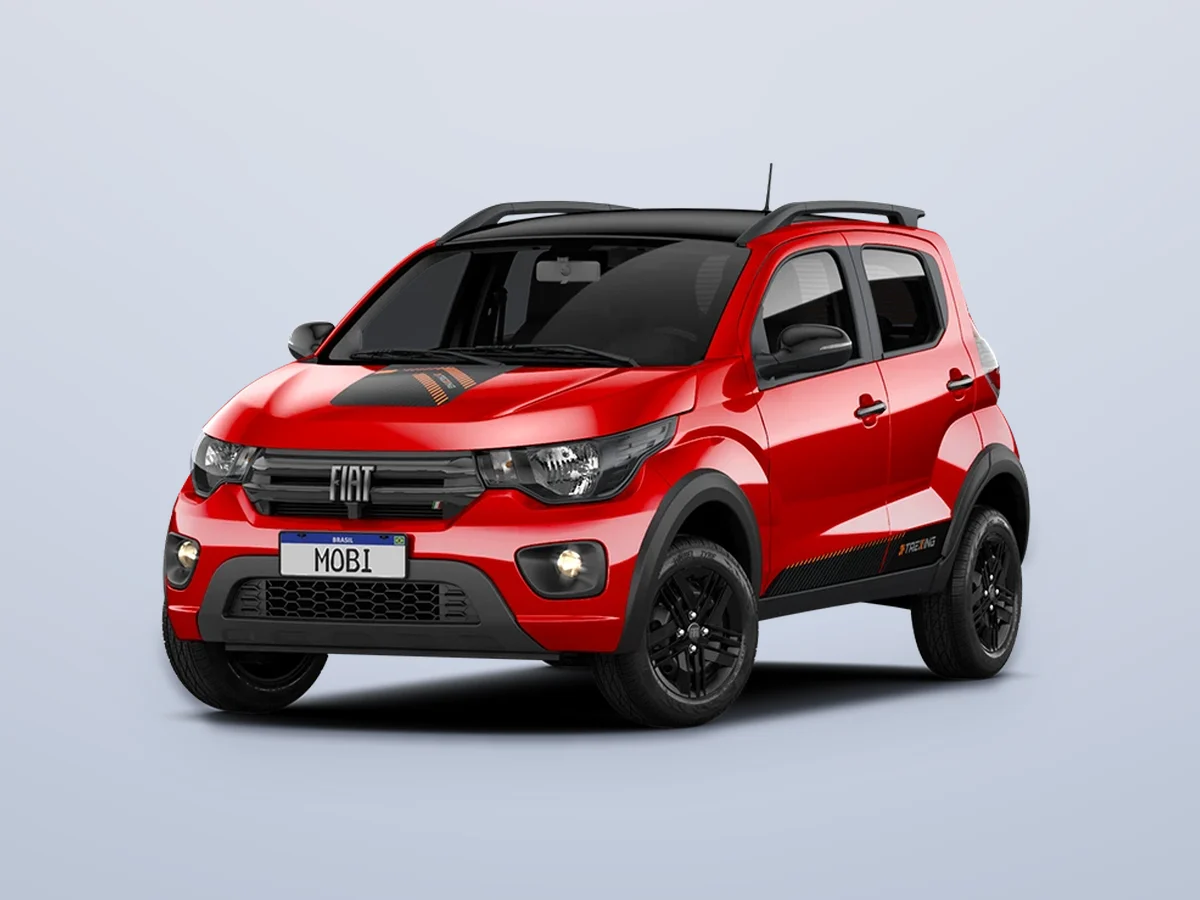
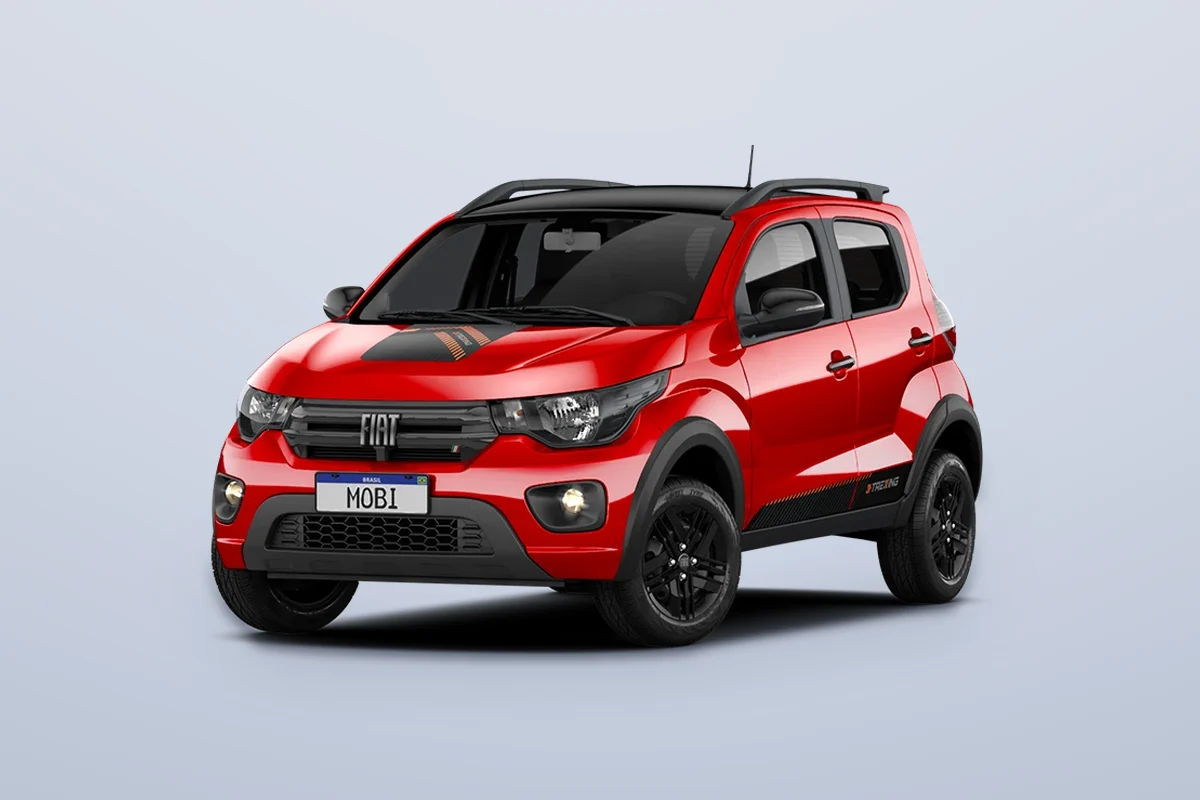
Site simples: catálogo com 21 carros, fotos 3:2 e créditos
Fotos livres (Wikimedia Commons/Flickr) em 3:2 sem cortar os carros,
créditos no rodapé, link direto por carro e correção do menu do
simulador que alargava a página no celular.

Claude-Session: https://claude.ai/code/session_01XKMQVQzYaDQyVTU4RpLrZe

Changed region(s): [[0.1233, 0.1875, 0.8633, 0.8125]]

diff --git a/fronteira-simples/index.html b/fronteira-simples/index.html
@@ -183,6 +183,32 @@
     <div class="wrap foot-in">
       <img src="assets/logo-fronteira-white.svg" alt="Fronteira Veículos" width="120" height="54" loading="lazy">
       <p>© 2026 Fronteira Veículos · Santana do Livramento, RS. Imagens e valores ilustrativos.</p>
+      <details class="creditos">
+        <summary>Créditos das fotos</summary>
+        <p>Fotos ilustrativas de bancos de imagens livres (Wikimedia Commons e Flickr), recortadas e redimensionadas para o site. As fotos do Compass, do Mobi e da McLaren são do material da loja.</p>
+        <ul>
+          <li><a href="https://commons.wikimedia.org/wiki/File:Ford_Ranger_(T6,_P703)_Wildtrak_IMG_7320.jpg" target="_blank" rel="noopener">Ford Ranger (T6, P703) Wildtrak IMG 7320</a>, por Alexander-93 (<a href="https://creativecommons.org/licenses/by-sa/4.0/" target="_blank" rel="noopener">CC BY-SA 4.0</a>)</li>
+          <li><a href="https://commons.wikimedia.org/wiki/File:Ford_Territory_2nd_gen_(CX743MCA).jpg" target="_blank" rel="noopener">Ford Territory 2nd gen (CX743MCA)</a>, por Mateusmatsuda (<a href="https://creativecommons.org/licenses/by/4.0/" target="_blank" rel="noopener">CC BY 4.0</a>)</li>
+          <li><a href="https://commons.wikimedia.org/w/index.php?curid=94304177" target="_blank" rel="noopener">Jeep Renegade FL IMG 3321</a>, por Alexander Migl (<a href="https://creativecommons.org/licenses/by-sa/4.0/" target="_blank" rel="noopener">CC BY-SA 4.0</a>)</li>
+          <li><a href="https://commons.wikimedia.org/w/index.php?curid=123443988" target="_blank" rel="noopener">2023 Jeep Commander Overland T270 (Colombia) front view</a>, por Autosdeprimera (<a href="https://creativecommons.org/licenses/by/3.0/" target="_blank" rel="noopener">CC BY 3.0</a>)</li>
+          <li><a href="https://commons.wikimedia.org/w/index.php?curid=182386575" target="_blank" rel="noopener">Ram Rampage RT 4WD 2025</a>, por RL GNZLZ (<a href="https://creativecommons.org/licenses/by-sa/4.0/" target="_blank" rel="noopener">CC BY-SA 4.0</a>)</li>
+          <li><a href="https://commons.wikimedia.org/w/index.php?curid=89196355" target="_blank" rel="noopener">2019 Ram 1500 Rebel 4x4, front 11.10</a>, por Kevauto (<a href="https://creativecommons.org/licenses/by-sa/4.0/" target="_blank" rel="noopener">CC BY-SA 4.0</a>)</li>
+          <li><a href="https://commons.wikimedia.org/w/index.php?curid=113029443" target="_blank" rel="noopener">2021 Hyundai Creta 2</a>, por Garagem do Jabulas (<a href="https://creativecommons.org/licenses/by/3.0/" target="_blank" rel="noopener">CC BY 3.0</a>)</li>
+          <li><a href="https://commons.wikimedia.org/w/index.php?curid=120760594" target="_blank" rel="noopener">2023 Hyundai HB20 1</a>, por Autosdeprimera (<a href="https://creativecommons.org/licenses/by/3.0/" target="_blank" rel="noopener">CC BY 3.0</a>)</li>
+          <li><a href="https://commons.wikimedia.org/w/index.php?curid=120760405" target="_blank" rel="noopener">2023 Hyundai HB20 1</a>, por Autosdeprimera (<a href="https://creativecommons.org/licenses/by/3.0/" target="_blank" rel="noopener">CC BY 3.0</a>)</li>
+          <li><a href="https://commons.wikimedia.org/w/index.php?curid=97871543" target="_blank" rel="noopener">Hyundai Tucson (NX4) IMG 3676</a>, por Alexander Migl (<a href="https://creativecommons.org/licenses/by-sa/4.0/" target="_blank" rel="noopener">CC BY-SA 4.0</a>)</li>
+          <li><a href="https://commons.wikimedia.org/w/index.php?curid=130681354" target="_blank" rel="noopener">2021 BYD Dolphin EV (front)</a>, por User3204 (<a href="https://creativecommons.org/licenses/by-sa/4.0/" target="_blank" rel="noopener">CC BY-SA 4.0</a>)</li>
+          <li><a href="https://commons.wikimedia.org/w/index.php?curid=132560434" target="_blank" rel="noopener">2022 BYD Seal</a>, por User3204 (<a href="https://creativecommons.org/licenses/by-sa/4.0/" target="_blank" rel="noopener">CC BY-SA 4.0</a>)</li>
+          <li><a href="https://commons.wikimedia.org/w/index.php?curid=137312071" target="_blank" rel="noopener">BYD Seal IAA 2023 1X7A0505</a>, por Alexander-93 (<a href="https://creativecommons.org/licenses/by-sa/4.0/" target="_blank" rel="noopener">CC BY-SA 4.0</a>)</li>
+          <li><a href="https://commons.wikimedia.org/w/index.php?curid=106320867" target="_blank" rel="noopener">2021 Toyota Corolla Cross Hybrid SEG (Colombia) front view 01</a>, por Autosdeprimera (<a href="https://creativecommons.org/licenses/by/3.0/" target="_blank" rel="noopener">CC BY 3.0</a>)</li>
+          <li><a href="https://commons.wikimedia.org/w/index.php?curid=93327029" target="_blank" rel="noopener">Volkswagen T-Cross (front view, Colombia)</a>, por Autosdeprimera (<a href="https://creativecommons.org/licenses/by/3.0/" target="_blank" rel="noopener">CC BY 3.0</a>)</li>
+          <li><a href="https://commons.wikimedia.org/w/index.php?curid=106049165" target="_blank" rel="noopener">2021 Chevrolet Onix 1</a>, por RL GNZLZ (<a href="https://creativecommons.org/licenses/by-sa/2.0/" target="_blank" rel="noopener">CC BY-SA 2.0</a>)</li>
+          <li><a href="https://commons.wikimedia.org/w/index.php?curid=99192926" target="_blank" rel="noopener">Fiat Strada 2020 Volcano in Montevideo (front)</a>, por NaBUru38 (<a href="https://creativecommons.org/licenses/by-sa/4.0/" target="_blank" rel="noopener">CC BY-SA 4.0</a>)</li>
+          <li><a href="https://commons.wikimedia.org/w/index.php?curid=118357613" target="_blank" rel="noopener">Honda HR-V Hybrid 1X7A0427</a>, por Alexander Migl (<a href="https://creativecommons.org/licenses/by-sa/4.0/" target="_blank" rel="noopener">CC BY-SA 4.0</a>)</li>
+          <li><a href="https://commons.wikimedia.org/w/index.php?curid=77012470" target="_blank" rel="noopener">2019 BMW X5 M50d Automatic 3</a>, por Vauxford (<a href="https://creativecommons.org/licenses/by-sa/4.0/" target="_blank" rel="noopener">CC BY-SA 4.0</a>)</li>
+          <li><a href="https://www.flickr.com/photos/34698467@N03/9626546987" target="_blank" rel="noopener">Porsche 911 Carrera 4S (991)</a>, por David Villarreal Fernández (<a href="https://creativecommons.org/licenses/by-sa/2.0/" target="_blank" rel="noopener">CC BY-SA 2.0</a>)</li>
+        </ul>
+      </details>
     </div>
   </footer>
 

diff --git a/fronteira-simples/style.css b/fronteira-simples/style.css
@@ -91,7 +91,7 @@ h2 { font-size: clamp(1.8rem, 4vw, 2.6rem); }
 .car { background: #fff; border: 1px solid var(--line); border-radius: var(--r); overflow: hidden; display: flex; flex-direction: column; transition: transform .25s, box-shadow .25s; animation: aparece .45s ease both; }
 @keyframes aparece { from { opacity: 0; transform: translateY(14px); } }
 .car:hover { transform: translateY(-4px); box-shadow: 0 20px 40px -20px rgba(10,22,56,.35); }
-.car-img { position: relative; aspect-ratio: 16/10; overflow: hidden; background: #e9eef7; }
+.car-img { position: relative; aspect-ratio: 3/2; overflow: hidden; background: #e9eef7; }
 .car-img img { width: 100%; height: 100%; object-fit: cover; transition: transform .5s; }
 .car:hover .car-img img { transform: scale(1.05); }
 .tags { position: absolute; top: 12px; left: 12px; display: flex; gap: 6px; flex-wrap: wrap; z-index: 1; }
@@ -121,7 +121,7 @@ h2 { font-size: clamp(1.8rem, 4vw, 2.6rem); }
 .cond b { font-size: 1rem; }
 
 /* simulador */
-.sim { display: grid; grid-template-columns: 1fr 1.1fr; gap: 24px; align-items: start; margin-top: 28px; }
+.sim { display: grid; grid-template-columns: minmax(0, 1fr) minmax(0, 1.1fr); gap: 24px; align-items: start; margin-top: 28px; }
 .sim-box { background: var(--navy); color: #fff; border-radius: 22px; padding: 28px; display: grid; gap: 20px; position: sticky; top: 90px; }
 .sim-box label { display: grid; gap: 8px; font-weight: 600; font-size: .9rem; color: #c9d4f2; }
 .sim-box output { color: #fff; float: right; }
@@ -168,15 +168,15 @@ input[type=range] { width: 100%; accent-color: var(--blue); }
 .overlay.on { opacity: 1; }
 body.locked { overflow: hidden; }
 .x { position: absolute; top: 12px; right: 12px; width: 38px; height: 38px; border-radius: 50%; border: 0; background: rgba(10,22,56,.08); font-size: 1.5rem; line-height: 1; cursor: pointer; color: var(--ink); z-index: 2; }
-.modal { position: fixed; z-index: 90; left: 50%; top: 50%; width: min(1040px, calc(100% - 32px)); max-height: calc(100% - 40px); overflow: auto; background: #fff; border-radius: 22px; display: grid; grid-template-columns: 1.35fr 1fr; align-items: start; transform: translate(-50%, -46%); opacity: 0; transition: transform .3s, opacity .3s; }
+.modal { position: fixed; z-index: 90; left: 50%; top: 50%; width: min(1040px, calc(100% - 32px)); max-height: calc(100% - 40px); overflow: auto; background: #fff; border-radius: 22px; display: grid; grid-template-columns: minmax(0, 1.35fr) minmax(0, 1fr); align-items: start; transform: translate(-50%, -46%); opacity: 0; transition: transform .3s, opacity .3s; }
 .modal.on { transform: translate(-50%, -50%); opacity: 1; }
 .m-gal { position: sticky; top: 0; background: #0b1430; }
-.m-gal > img { width: 100%; aspect-ratio: 4/3; object-fit: cover; }
+.m-gal > img { width: 100%; aspect-ratio: 3/2; object-fit: cover; background: #e9eef7; }
 .m-gal .badge { position: absolute; top: 14px; left: 14px; z-index: 1; }
 .nav-f { position: absolute; top: calc(50% - 40px); width: 42px; height: 42px; border-radius: 50%; border: 0; background: rgba(255,255,255,.9); font-size: 1.6rem; line-height: 1; cursor: pointer; color: var(--ink); box-shadow: 0 6px 16px -6px rgba(0,0,0,.5); }
 .nav-f.prev { left: 12px; } .nav-f.next { right: 12px; }
 .thumbs { display: flex; gap: 6px; padding: 8px; overflow-x: auto; }
-.thumbs button { flex: none; width: 76px; aspect-ratio: 4/3; padding: 0; border: 2px solid transparent; border-radius: 8px; overflow: hidden; cursor: pointer; opacity: .6; background: none; }
+.thumbs button { flex: none; width: 76px; aspect-ratio: 3/2; padding: 0; border: 2px solid transparent; border-radius: 8px; overflow: hidden; cursor: pointer; opacity: .6; background: none; }
 .thumbs button.on { border-color: var(--blue); opacity: 1; }
 .thumbs img { width: 100%; height: 100%; object-fit: cover; }
 .m-body { padding: 26px 24px; display: flex; flex-direction: column; gap: 0; }
@@ -256,9 +256,9 @@ body.locked { overflow: hidden; }
 /* celular e tablet */
 @media (max-width: 960px) {
   .cars, .conds { grid-template-columns: repeat(2, 1fr); }
-  .sim, .about, .contact-in { grid-template-columns: 1fr; }
+  .sim, .about, .contact-in { grid-template-columns: minmax(0, 1fr); }
   .sim-box { position: static; }
-  .modal { grid-template-columns: 1fr; }
+  .modal { grid-template-columns: minmax(0, 1fr); }
   .m-gal { position: relative; }
   .toolbar { grid-template-columns: 1fr 1fr; }
   .toolbar .search { grid-column: 1 / -1; }
@@ -288,3 +288,11 @@ body.locked { overflow: hidden; }
   .chip { flex: none; }
   .cond { padding: 14px; }
 }
+
+/* créditos das fotos */
+.creditos { width: 100%; margin-top: 6px; font-size: .78rem; }
+.creditos summary { cursor: pointer; color: #b7c3e6; font-weight: 600; }
+.creditos ul { margin: 10px 0 0; padding-left: 18px; columns: 2 320px; column-gap: 28px; }
+.creditos li { margin-bottom: 4px; break-inside: avoid; }
+.creditos a { color: #b7c3e6; }
+select { max-width: 100%; min-width: 0; text-overflow: ellipsis; }

diff --git a/fronteira-simples/app.js b/fronteira-simples/app.js
@@ -83,7 +83,7 @@ function cardHTML(c) {
   <article class="car" data-id="${c.id}" data-cat="${c.cat}" tabindex="0" aria-label="Ver detalhes do ${esc(nome(c))}">
     <div class="car-img">
       <div class="tags">${tags.map((t, i) => `<span class="badge ${i ? 'selo' : 'cat-' + c.cat}">${esc(t)}</span>`).join('')}</div>
-      <img src="${c.fotos[0]}" alt="${esc(nome(c))}" loading="lazy" width="800" height="500">
+      <img src="${c.fotos[0]}" alt="${esc(nome(c))}" loading="lazy" width="1200" height="800">
       ${c.fotos.length > 1 ? `<span class="nfotos"><svg viewBox="0 0 24 24"><rect x="3" y="6" width="18" height="14" rx="2"/><circle cx="12" cy="13" r="3.5"/><path d="M8 6l2-2h4l2 2"/></svg>${c.fotos.length}</span>` : ''}
     </div>
     <div class="car-body">
@@ -404,6 +404,10 @@ $('#hero-n').textContent = CARROS.length;
 // link direto para um carro (ex.: ...#carro=compass-s)
 const deep = location.hash.match(/^#carro=(.+)$/);
 if (deep && byId(deep[1])) setTimeout(() => abrirModal(deep[1]), 300);
+addEventListener('hashchange', () => {
+  const m = location.hash.match(/^#carro=(.+)$/);
+  if (m && byId(m[1]) && modalId !== m[1]) abrirModal(m[1]);
+});
 
 // ================= MENU DO CELULAR =================
 const burger = $('#burger');
